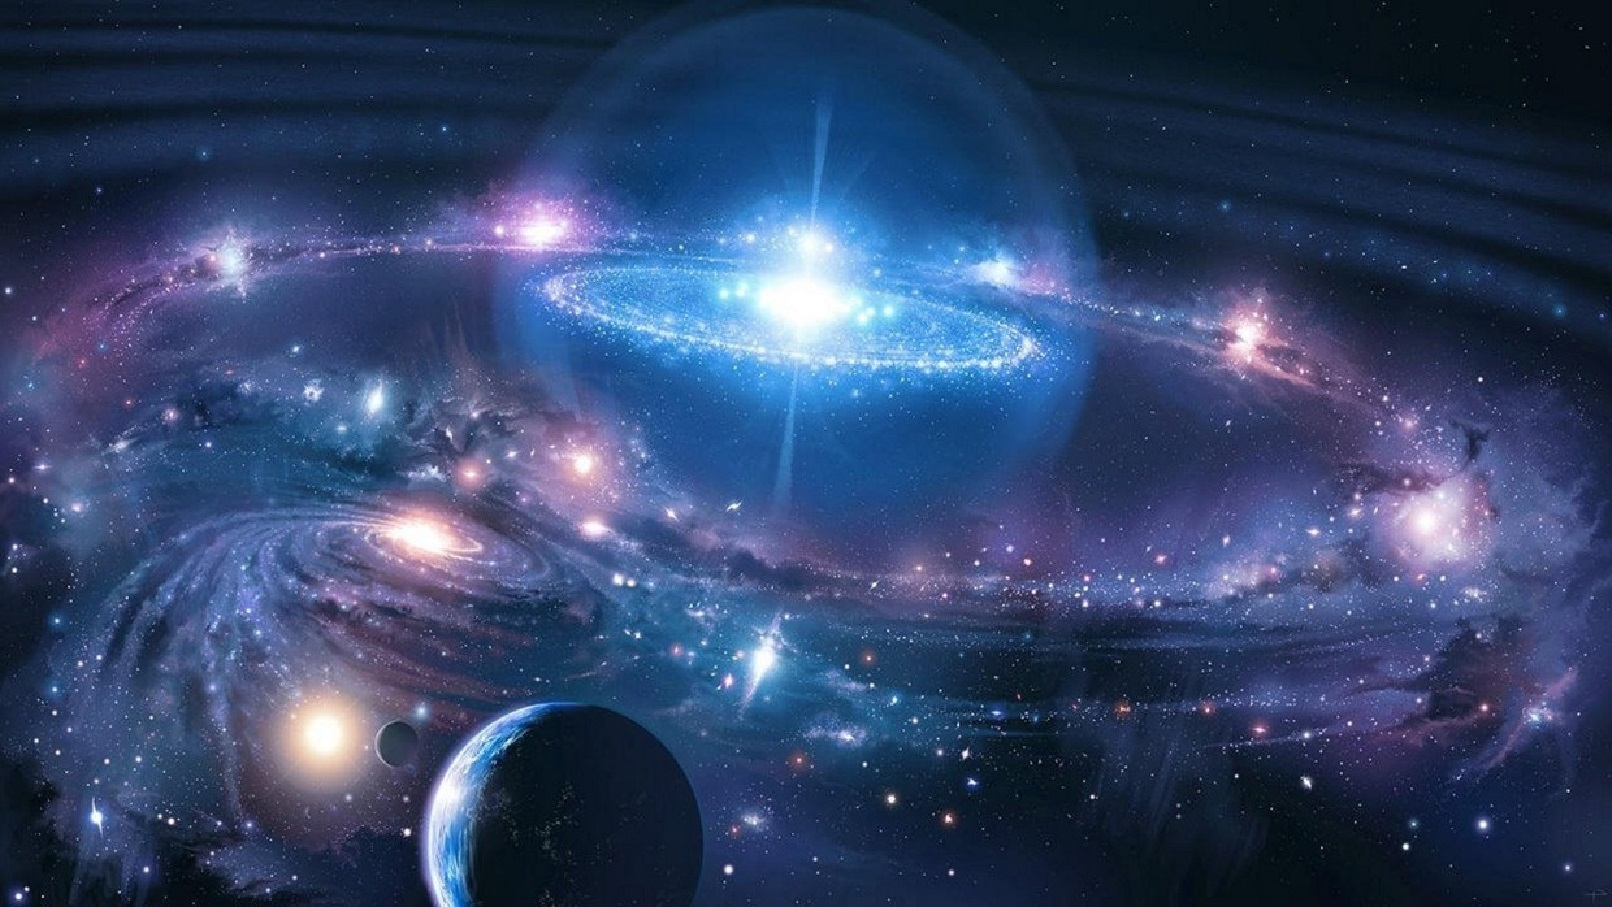
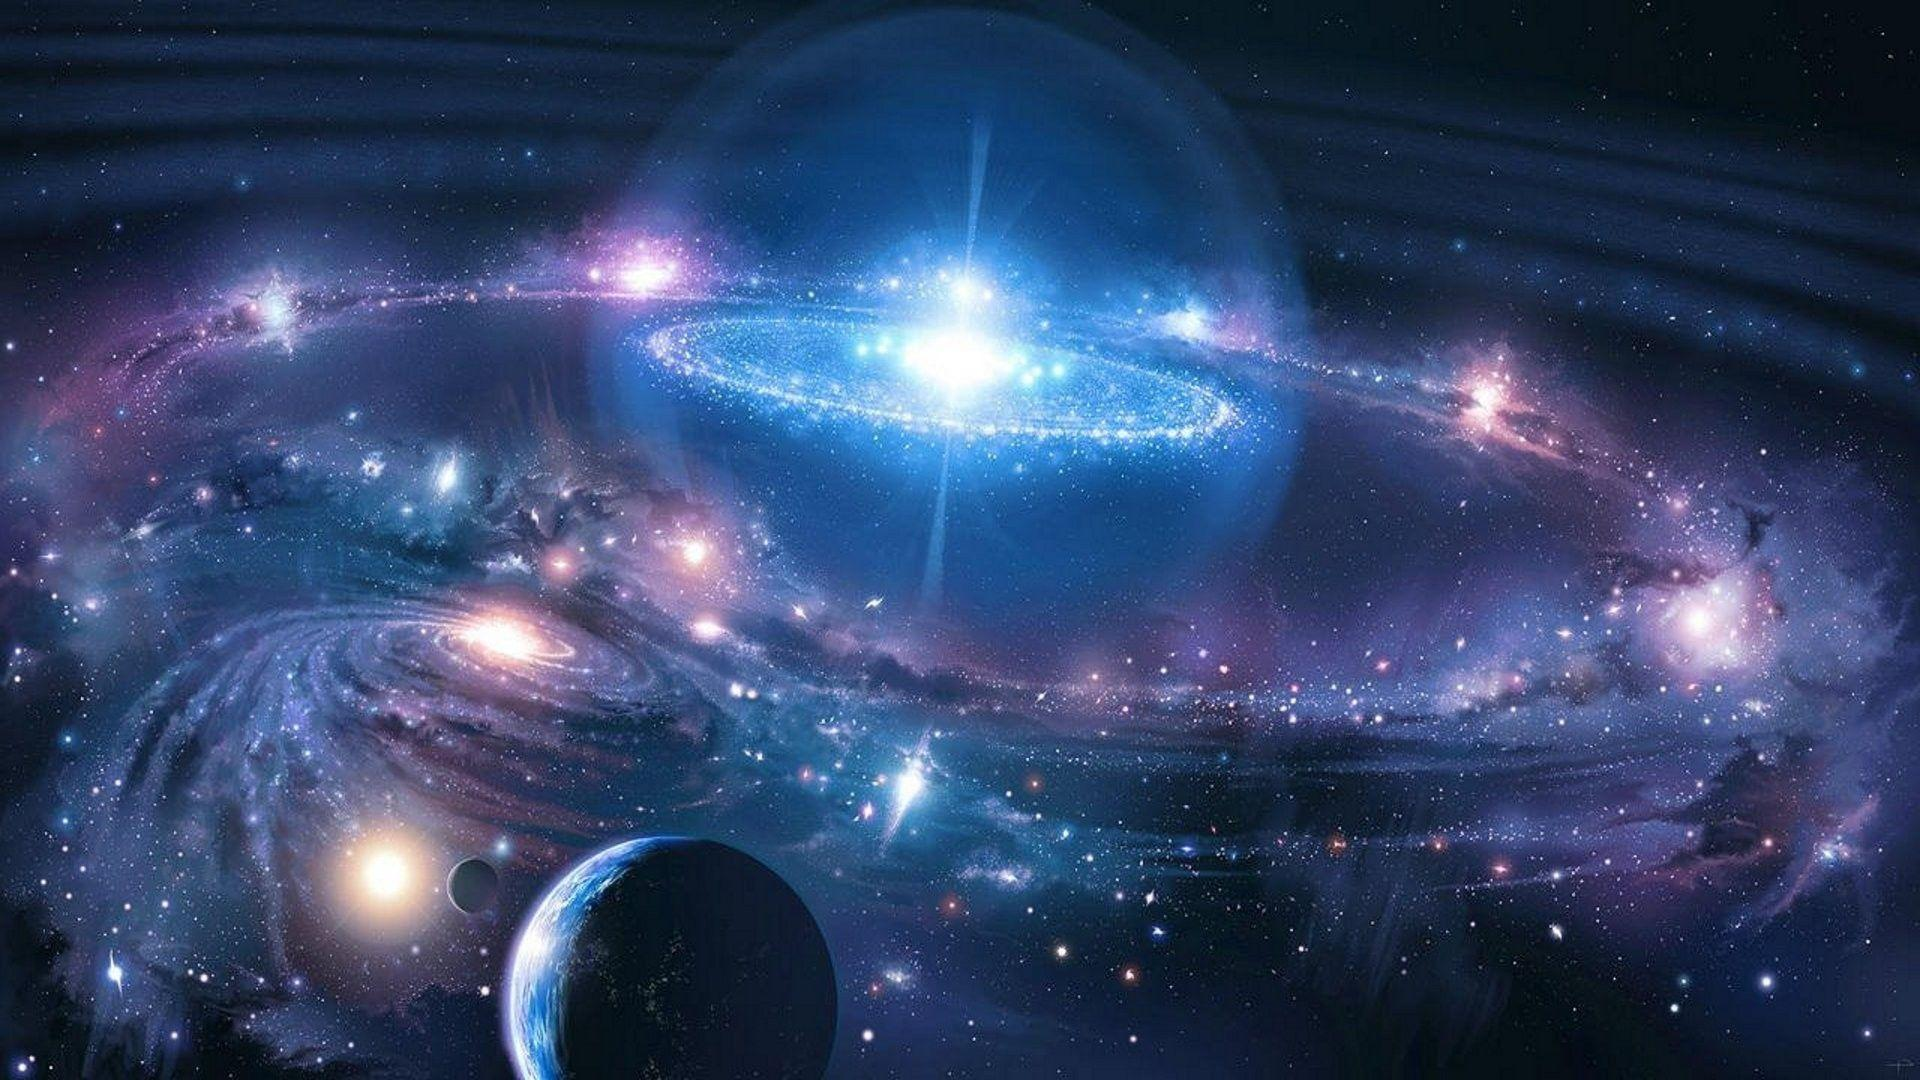
image

diff --git a/styles.css b/styles.css
@@ -104,7 +104,7 @@ div.foot h1
 {
 	background-image:url(images/cover.jpg);
 	box-shadow:0px 0px 15px 10px black;
-	background-size:cover;
+	background-size: 100% 100%;
 	height:100vh;
 }
 #ctitle
